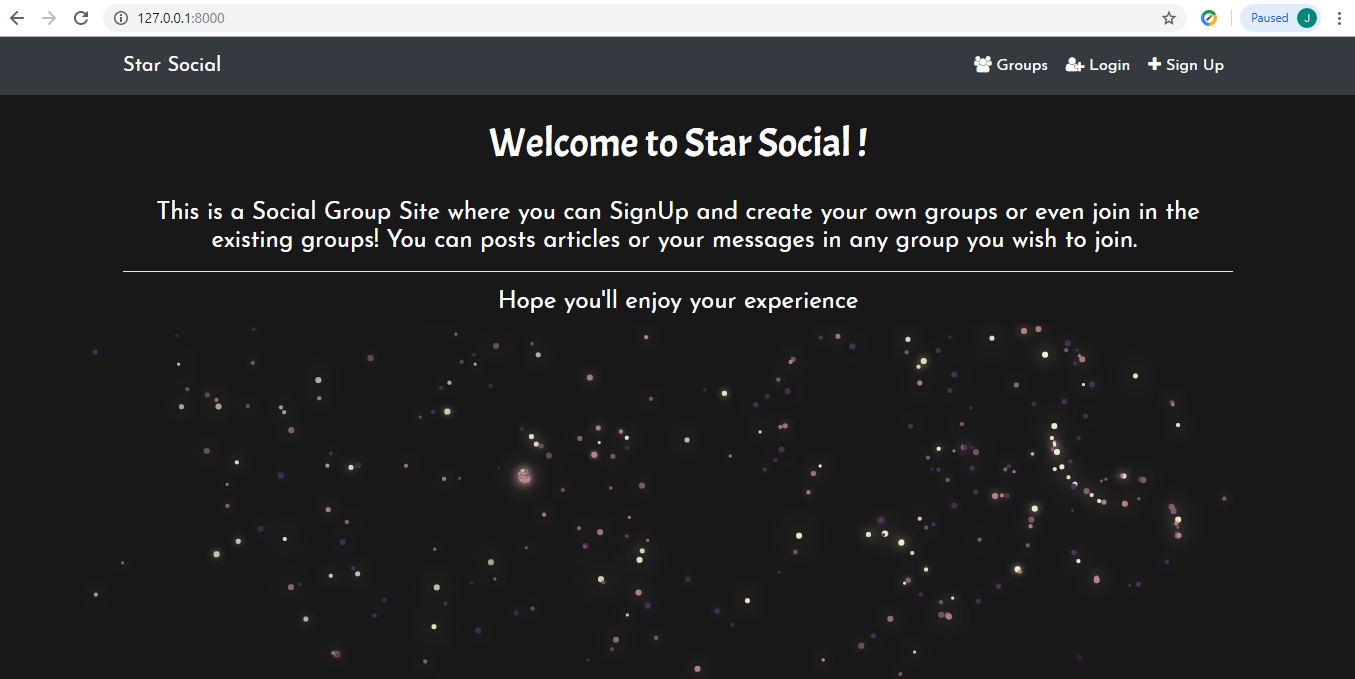
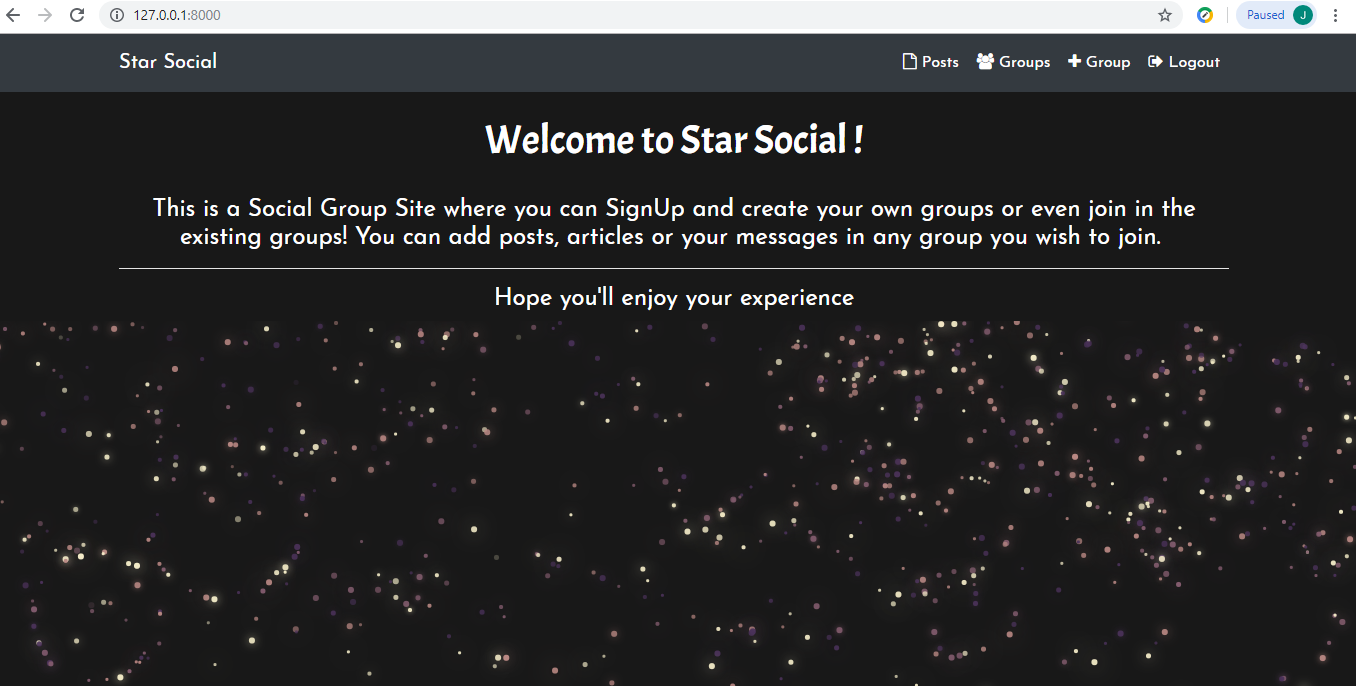
Minor Change

diff --git a/templates/index.html b/templates/index.html
@@ -4,7 +4,7 @@
   <h1 align='center'>Welcome to Star Social !</h1>
   <br>
   <h4 align='center'>This is a Social Group Site where you can SignUp and create your
-  own groups or even join in the existing groups! You can posts articles or your messages
+  own groups or even join in the existing groups! You can add posts, articles or your messages
   in any group you wish to join.
   <br>
   <hr>
